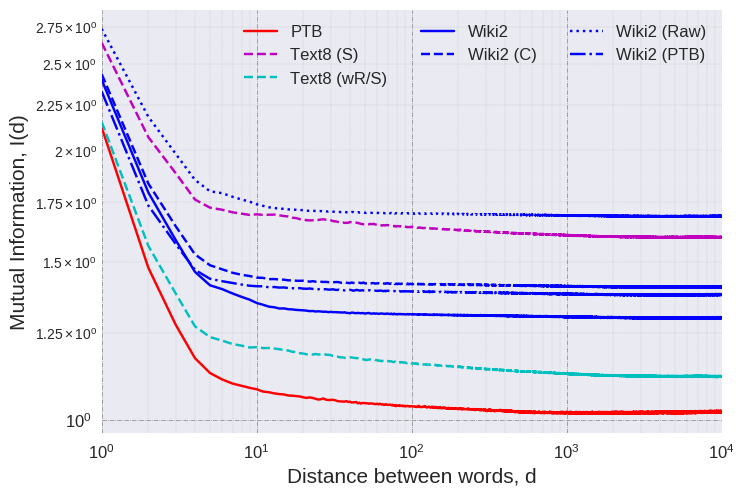
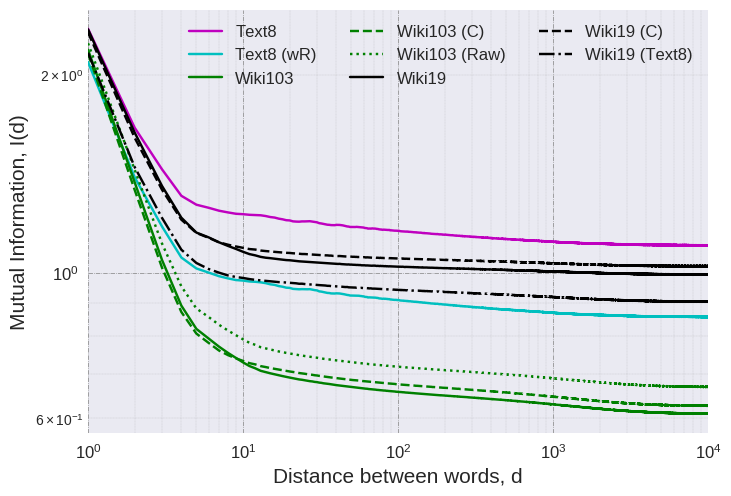
Up images #2

diff --git a/paper_related/plot_words.py b/paper_related/plot_words.py
@@ -50,21 +50,21 @@ for filename in filenames:
 
 with plt.style.context(('seaborn')):
 
-    plt.loglog(np.arange(1,len(all_mi[0])+1), all_mi[0], "r-", label="PTB")
-    #plt.loglog(np.arange(1,len(all_mi[1])+1), all_mi[1], 'm-', label="Text8")
-    plt.loglog(np.arange(1,len(all_mi[2])+1), all_mi[2], 'm--', label="Text8 (S)")
-    #plt.loglog(np.arange(1,len(all_mi[3])+1), all_mi[3], 'c-', label="Text8 (wR)")
-    plt.loglog(np.arange(1,len(all_mi[4])+1), all_mi[4], 'c--', label="Text8 (wR/S)")
-    plt.loglog(np.arange(1,len(all_mi[5])+1), all_mi[5], "b-", label="Wiki2")
-    plt.loglog(np.arange(1,len(all_mi[6])+1), all_mi[6], "b--", label="Wiki2 (C)")
-    plt.loglog(np.arange(1,len(all_mi[7])+1), all_mi[7], "b:", label="Wiki2 (Raw)")
-    plt.loglog(np.arange(1,len(all_mi[8])+1), all_mi[8], "b-.", label="Wiki2 (PTB)")
-    #plt.loglog(np.arange(1,len(all_mi[9])+1), all_mi[9], "g-", label="Wiki103")
-    #plt.loglog(np.arange(1,len(all_mi[10])+1), all_mi[10], "g--", label="Wiki103 (C)")
-    #plt.loglog(np.arange(1,len(all_mi[11])+1), all_mi[11], "g:", label="Wiki103 (Raw)")
-    #plt.loglog(np.arange(1,len(all_mi[12])+1), all_mi[12], "k-", label="Wiki19")
-    #plt.loglog(np.arange(1,len(all_mi[13])+1), all_mi[13], "k--", label="Wiki19 (C)")
-    #plt.loglog(np.arange(1,len(all_mi[14])+1), all_mi[14], "k-.", label="Wiki19 (Text8)")
+    #plt.loglog(np.arange(1,len(all_mi[0])+1), all_mi[0], "r-", label="PTB")
+    plt.loglog(np.arange(1,len(all_mi[1])+1), all_mi[1], 'm-', label="Text8")
+    #plt.loglog(np.arange(1,len(all_mi[2])+1), all_mi[2], 'm--', label="Text8 (S)")
+    plt.loglog(np.arange(1,len(all_mi[3])+1), all_mi[3], 'c-', label="Text8 (wR)")
+    #plt.loglog(np.arange(1,len(all_mi[4])+1), all_mi[4], 'c--', label="Text8 (wR/S)")
+    #plt.loglog(np.arange(1,len(all_mi[5])+1), all_mi[5], "b-", label="Wiki2")
+    #plt.loglog(np.arange(1,len(all_mi[6])+1), all_mi[6], "b--", label="Wiki2 (C)")
+    #plt.loglog(np.arange(1,len(all_mi[7])+1), all_mi[7], "b:", label="Wiki2 (Raw)")
+    #plt.loglog(np.arange(1,len(all_mi[8])+1), all_mi[8], "b-.", label="Wiki2 (PTB)")
+    plt.loglog(np.arange(1,len(all_mi[9])+1), all_mi[9], "g-", label="Wiki103")
+    plt.loglog(np.arange(1,len(all_mi[10])+1), all_mi[10], "g--", label="Wiki103 (C)")
+    plt.loglog(np.arange(1,len(all_mi[11])+1), all_mi[11], "g:", label="Wiki103 (Raw)")
+    plt.loglog(np.arange(1,len(all_mi[12])+1), all_mi[12], "k-", label="Wiki19")
+    plt.loglog(np.arange(1,len(all_mi[13])+1), all_mi[13], "k--", label="Wiki19 (C)")
+    plt.loglog(np.arange(1,len(all_mi[14])+1), all_mi[14], "k-.", label="Wiki19 (Text8)")
     #plt.loglog(np.arange(1,len(all_mi[15])+1), all_mi[15], "y--", label="German Text")
 
     plt.tick_params(labelsize='large', width=5)
